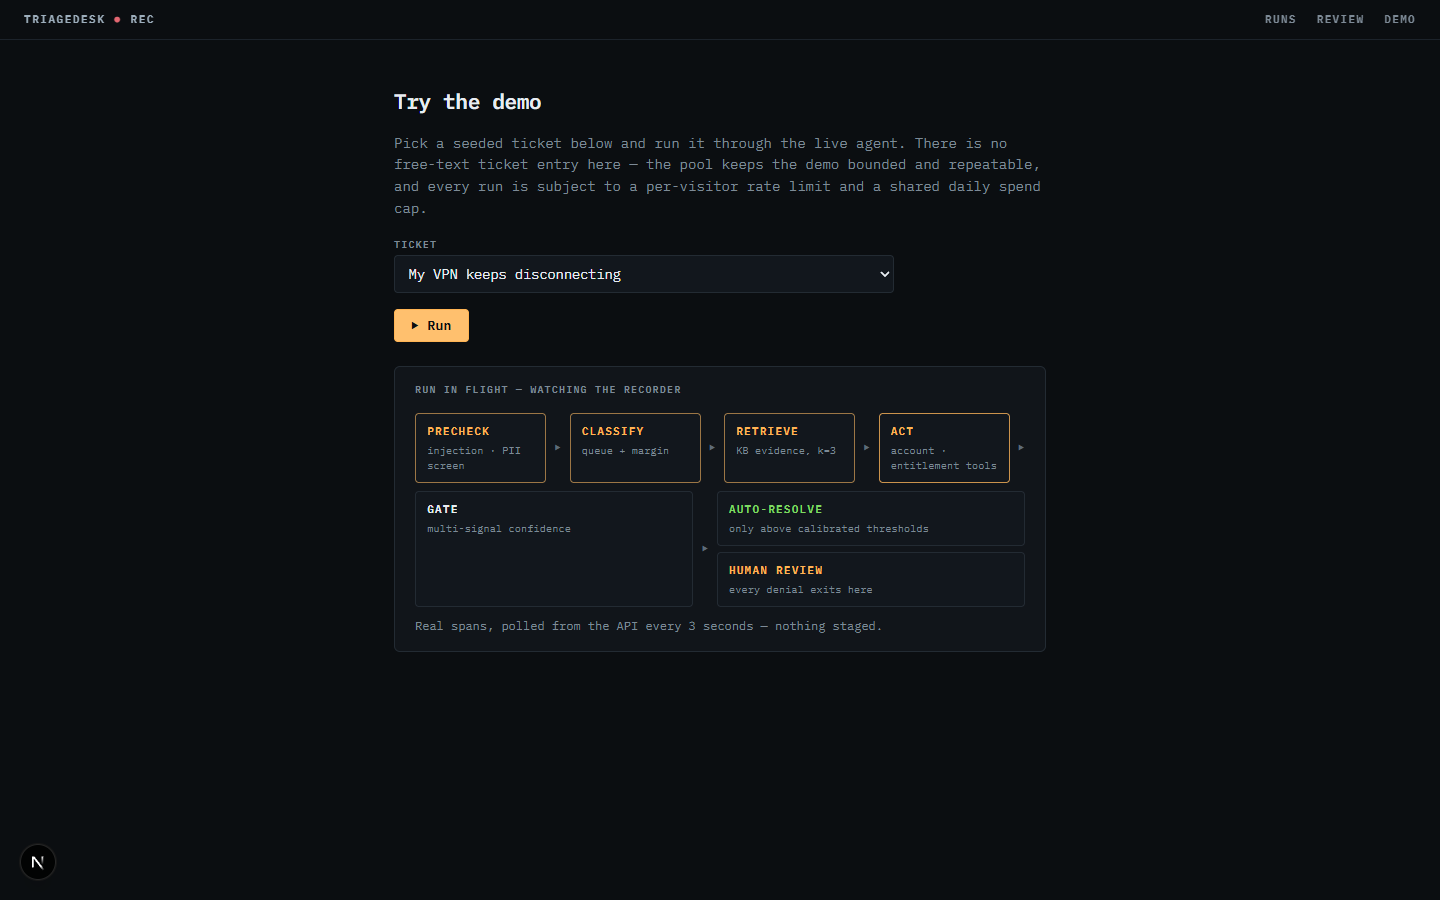
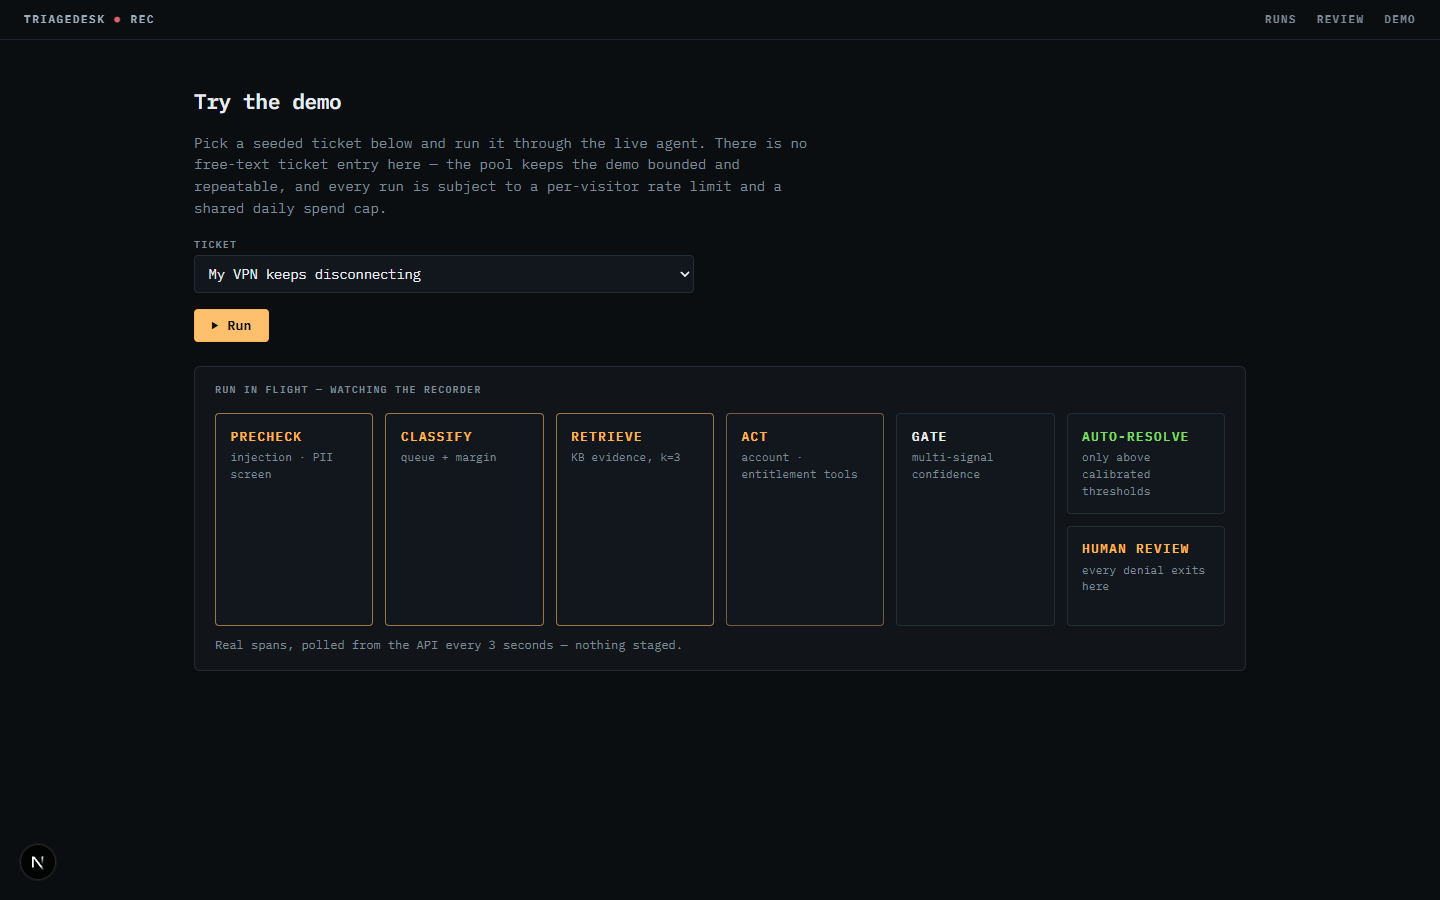
polish(#58): live pipeline becomes a strict equal-cell grid; demo page widens

diff --git a/console/app/globals.css b/console/app/globals.css
@@ -718,16 +718,27 @@ label {
   background: var(--green-tint);
 }
 
-/* live pipeline reads slightly larger than the ambient one — it's the show */
+/* Live pipeline: a strict equal-cell grid — five stages plus the outcome
+   stack, every cell the same width, every row the same height, one gap
+   rhythm throughout. Slightly larger than the ambient one — it's the show.
+   The flow arrows are dropped here; the lights carry the order. */
 .pipeline-live {
-  gap: 0.6rem;
+  display: grid;
+  grid-template-columns: repeat(6, 1fr);
+  gap: 0.75rem;
+  align-items: stretch;
+}
+
+.pipeline-live .flow {
+  display: none;
 }
 
 .pipeline-live .stage,
 .pipeline-live .outcome {
-  flex-basis: 140px;
-  min-width: 130px;
-  padding: 0.7rem 0.85rem;
+  flex: none;
+  min-width: 0;
+  min-height: 96px;
+  padding: 0.8rem 0.9rem;
   font-size: 0.75rem;
 }
 
@@ -739,6 +750,28 @@ label {
 .pipeline-live .stage span,
 .pipeline-live .outcome span {
   font-size: 0.68rem;
+}
+
+.pipeline-live .outcomes {
+  display: grid;
+  grid-template-rows: 1fr 1fr;
+  gap: 0.75rem;
+  min-width: 0;
+}
+
+.pipeline-live .outcomes .outcome {
+  min-height: 0;
+}
+
+@media (max-width: 820px) {
+  .pipeline-live {
+    grid-template-columns: repeat(2, 1fr);
+  }
+  .pipeline-live .outcomes {
+    grid-column: 1 / -1;
+    grid-template-rows: none;
+    grid-template-columns: 1fr 1fr;
+  }
 }
 
 /* entrance: @starting-style — the panel appears the moment a run starts */

diff --git a/console/app/demo/page.tsx b/console/app/demo/page.tsx
@@ -9,9 +9,9 @@ export default async function DemoPage() {
   const { tickets } = await listDemoPool();
 
   return (
-    <main style={{ maxWidth: 700 }}>
+    <main>
       <h1>Try the demo</h1>
-      <p className="muted">
+      <p className="muted" style={{ maxWidth: 640 }}>
         Pick a seeded ticket below and run it through the live agent. There is
         no free-text ticket entry here — the pool keeps the demo bounded and
         repeatable, and every run is subject to a per-visitor rate limit and a